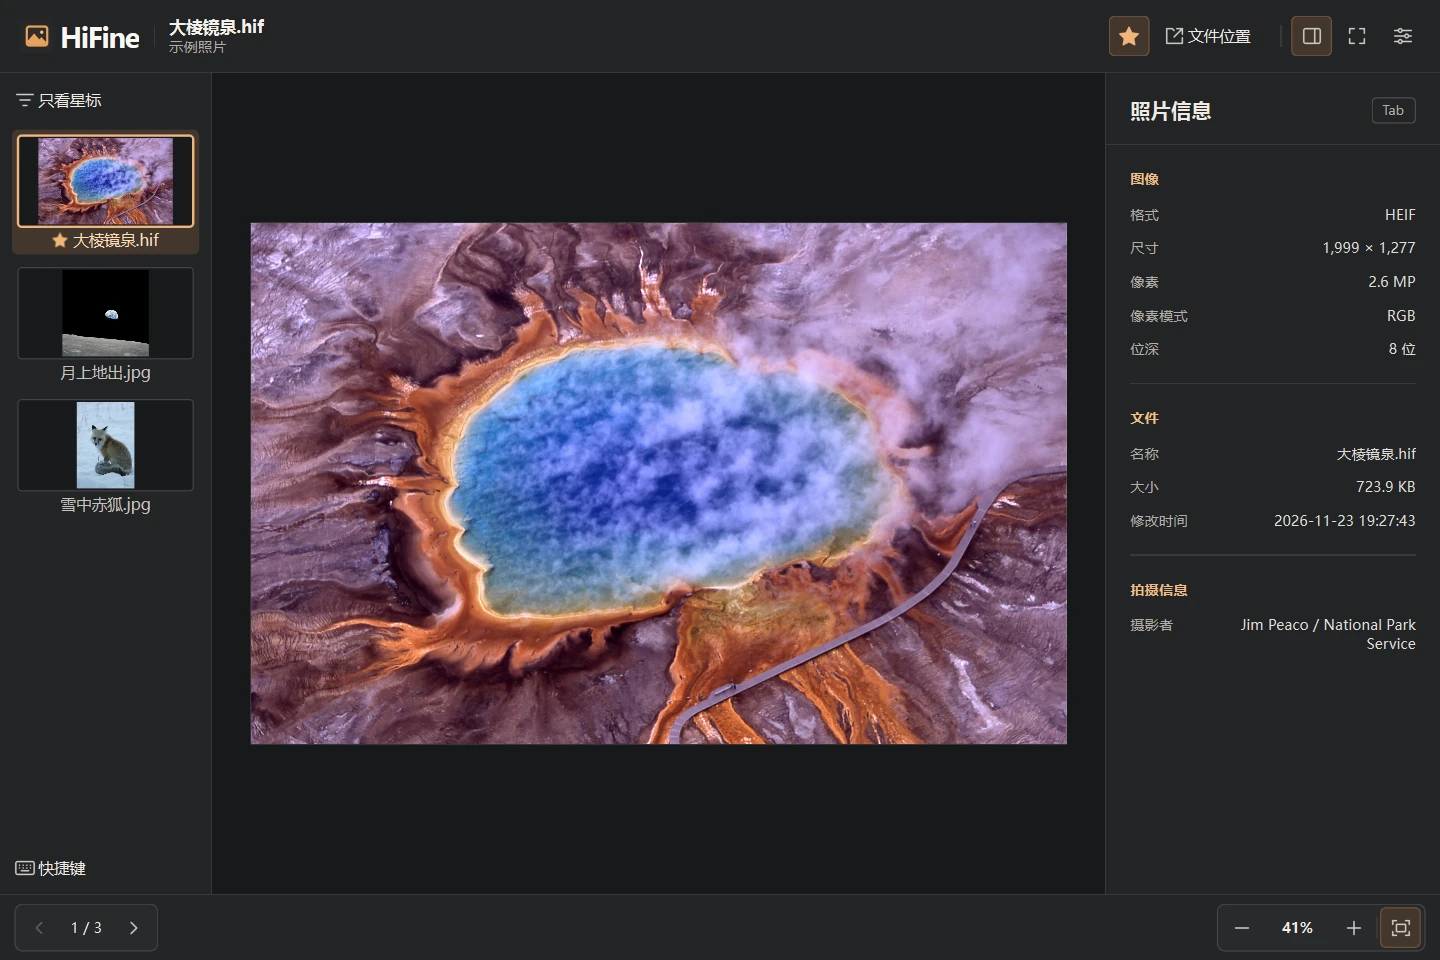
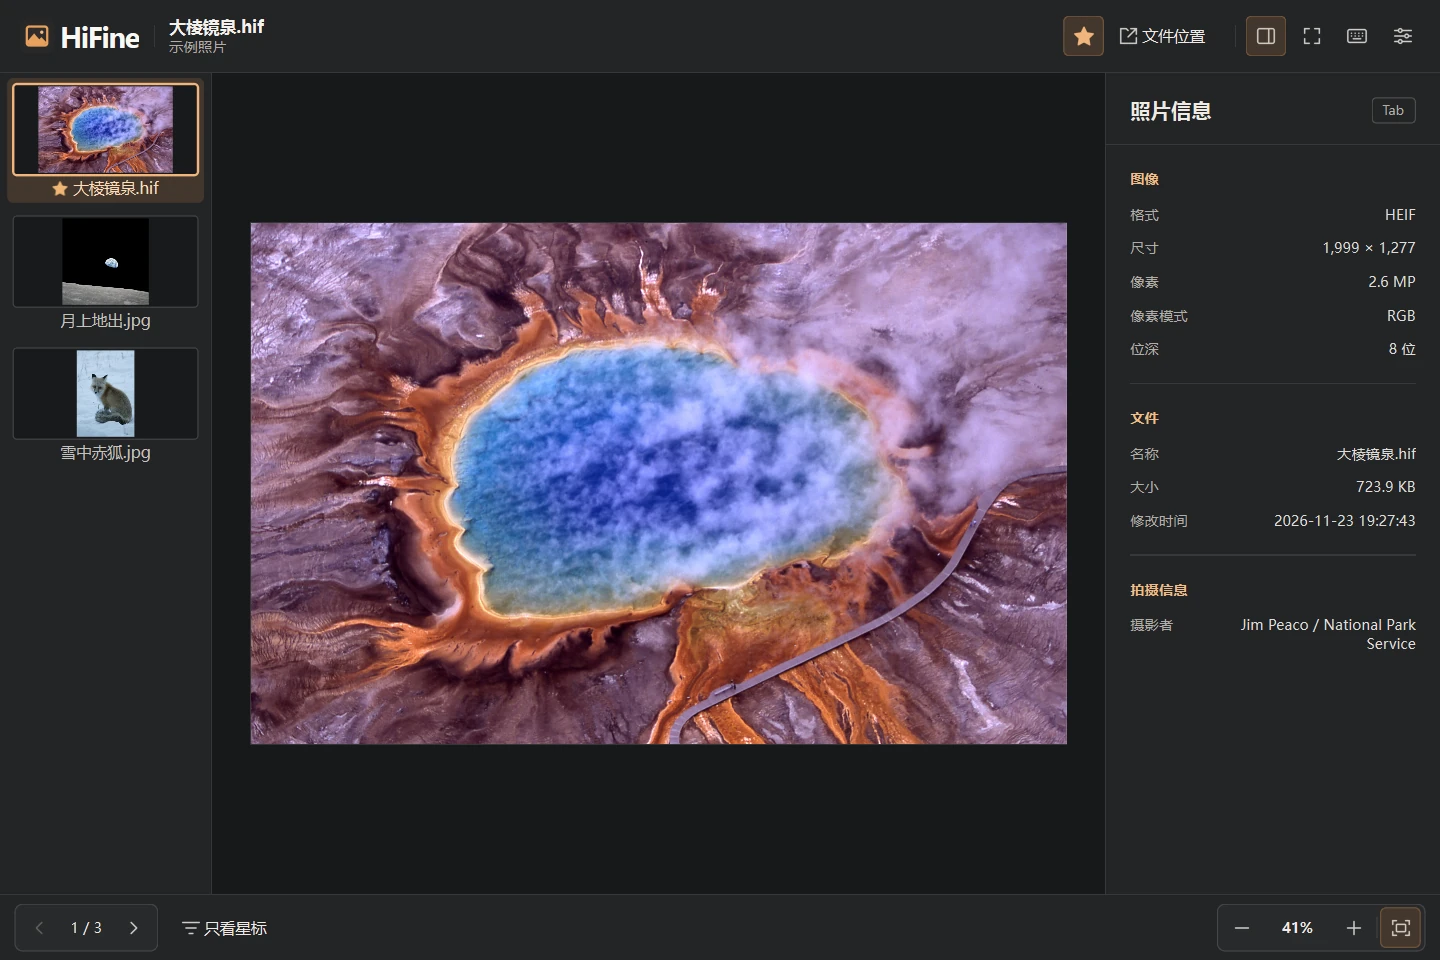
feat: 调整星标筛选和快捷键入口，腾出缩略图空间

diff --git a/src/hifine/viewer.py b/src/hifine/viewer.py
@@ -10,7 +10,7 @@ from PySide6.QtCore import (
 from PySide6.QtGui import QColorSpace, QDesktopServices, QGuiApplication, QImage, QKeySequence, QMovie, QShortcut, QTransform
 from PySide6.QtWidgets import (
     QApplication, QDialog, QFileDialog, QFrame, QHBoxLayout, QLabel, QMainWindow,
-    QMessageBox, QSizePolicy, QStackedWidget, QVBoxLayout, QWidget,
+    QMessageBox, QStackedWidget, QVBoxLayout, QWidget,
 )
 
 from .canvas import ImageCanvas
@@ -58,7 +58,6 @@ QLabel#sectionTitle { font-size: 12px; font-weight: 600; color: #f1bc86; }
 QTextEdit#metaValue { color: #dfddd8; background: transparent; }
 QLabel#filename { color: #f4f1ec; font-size: 14px; font-weight: 600; }
 QTextEdit#stateDescription { color: #a8a5a0; background: transparent; }
-QWidget#thumbnailSidebar { background: #232426; }
 QFrame#buttonGroup { background: #292a2c; border: 1px solid #454548; border-radius: 7px; }
 QToolButton#zoom { font-size: 12px; font-weight: 600; }
 QScrollBar:vertical { background: #232426; width: 6px; }
@@ -198,6 +197,9 @@ class MainWindow(QMainWindow):
         top.addWidget(self.info_button)
         self.full_button = ToolButton("fullscreen", "进入或退出全屏", self._toggle_fullscreen, checkable=True)
         top.addWidget(self.full_button)
+        self.shortcuts_button = ToolButton("keyboard", "快捷键", self.show_shortcuts)
+        self.shortcuts_button.setFocusPolicy(Qt.FocusPolicy.TabFocus)
+        top.addWidget(self.shortcuts_button)
         self.settings_button = ToolButton("settings", "设置", self.show_settings)
         top.addWidget(self.settings_button)
         layout.addWidget(header)
@@ -210,21 +212,7 @@ class MainWindow(QMainWindow):
         self.thumbnail_list.row_requested.connect(self._go_to)
         self.thumbnail_list.file_menu_requested.connect(self._show_file_menu)
         QApplication.instance().aboutToQuit.connect(self.thumbnail_list.shutdown)
-        self.thumbnail_sidebar = QWidget()
-        self.thumbnail_sidebar.setObjectName("thumbnailSidebar")
-        sidebar = QVBoxLayout(self.thumbnail_sidebar)
-        sidebar.setContentsMargins(4, 5, 4, 5)
-        sidebar.setSpacing(4)
-        self.favorite_filter = ToolButton("filter", "只看星标", self._filter_favorites,
-                                          text="只看星标", checkable=True)
-        self.favorite_filter.setSizePolicy(QSizePolicy.Policy.Expanding, QSizePolicy.Policy.Fixed)
-        sidebar.addWidget(self.favorite_filter)
-        sidebar.addWidget(self.thumbnail_list, 1)
-        self.thumbnail_hint = ToolButton("keyboard", "快捷键", self.show_shortcuts, text="快捷键")
-        self.thumbnail_hint.setFocusPolicy(Qt.FocusPolicy.TabFocus)
-        self.thumbnail_hint.setSizePolicy(QSizePolicy.Policy.Expanding, QSizePolicy.Policy.Fixed)
-        sidebar.addWidget(self.thumbnail_hint)
-        body.addWidget(self.thumbnail_sidebar)
+        body.addWidget(self.thumbnail_list)
         sidebar_divider = QFrame()
         sidebar_divider.setObjectName("divider")
         sidebar_divider.setFixedWidth(1)
@@ -294,6 +282,9 @@ class MainWindow(QMainWindow):
         self.play_button = ToolButton("pause", "播放或暂停动图", self._toggle_play)
         self.play_button.hide()
         group(self.prev_button, self.position, self.next_button, self.play_button)
+        self.favorite_filter = ToolButton("filter", "只看星标", self._filter_favorites,
+                                          text="只看星标", checkable=True)
+        bottom.addWidget(self.favorite_filter)
         self.selection_label = ElidedLabel("selection")
         self.selection_label.setToolTip("右键选中的缩略图可批量操作")
         bottom.addWidget(self.selection_label, 1)
@@ -341,7 +332,7 @@ class MainWindow(QMainWindow):
         button(window_keys, self.full_button, ("F11", keys.FullScreen))
         window_keys.append(("退出全屏", bind(("Escape",), self._leave_fullscreen)))
         button(window_keys, self.settings_button, ("Ctrl+,",))
-        button(window_keys, self.thumbnail_hint, ("F1",))
+        button(window_keys, self.shortcuts_button, ("F1",))
         window_keys.append(("移到下一个控件", bind(("F6",), self.focusNextChild)))
         window_keys.append(("移到上一个控件", bind(("Shift+F6",), self.focusPreviousChild)))
         button(photo_keys, self.prev_button, ("Left", "Up"), repeat=True)
@@ -963,11 +954,7 @@ class MainWindow(QMainWindow):
         if hasattr(self, "info_panel"):
             self.reveal_button.setToolButtonStyle(Qt.ToolButtonStyle.ToolButtonTextBesideIcon
                                                   if self.width() >= 760 else Qt.ToolButtonStyle.ToolButtonIconOnly)
-            width = max(105, min(176, round(self.width() * 0.15)))
-            side = self.thumbnail_sidebar
-            margins = side.layout().contentsMargins()
-            tools_width = max(self.favorite_filter.sizeHint().width(), self.thumbnail_hint.sizeHint().width())
-            side.setFixedWidth(max(width, tools_width + margins.left() + margins.right()))
+            self.thumbnail_list.setFixedWidth(max(105, min(176, round(self.width() * 0.15))))
             self.info_panel.setFixedWidth(max(205, min(278, round(self.width() * 0.235))))
 
     def dragEnterEvent(self, event):

diff --git a/tests/test_viewer.py b/tests/test_viewer.py
@@ -80,12 +80,15 @@ def request_menu(app, widget, point):
 
 
 def test_star_filter_navigation_bulk_copy_and_unmark(app, window, tmp_path):
+    window.resize(600, 380)
     paths = [tmp_path / f"{n}.jpg" for n in range(4)]
     for path in paths:
         Image.new("RGB", (8, 8)).save(path)
     window.open_file(paths[0])
     finish_read(app, window)
     view = window.thumbnail_list
+    assert window.favorite_filter.parentWidget().objectName() == "footer"
+    assert window.favorite_filter.width() >= window.favorite_filter.sizeHint().width()
     # A second window may already have starred the photo since this one loaded.
     window._favorite_store.set_favorite(paths[0], True)
     QTest.keyClick(view, Qt.Key.Key_F)
@@ -385,11 +388,12 @@ def test_shortcut_help_preserves_thumbnail_selection_and_focus(app, window, tmp_
     window.open_file(paths[-1])
     finish_read(app, window)
     view = window.thumbnail_list
-    hint = window.thumbnail_hint
+    button = window.shortcuts_button
     assert view.verticalScrollBar().value() > 0
-    assert hint.isVisible() and hint.text() == "快捷键"
-    assert hint.mapTo(window, QPoint()).y() >= view.mapTo(window, QPoint(0, view.height())).y()
-    assert hint.width() >= hint.sizeHint().width()
+    assert view.height() == window.stage.height()
+    assert button.parentWidget() is window.settings_button.parentWidget()
+    assert button.isVisible() and not button.icon().isNull()
+    assert button.accessibleName() == "快捷键" and "F1" in button.toolTip()
     previous = view.model().index(len(paths) - 2, 0)
     QTest.mouseClick(view.viewport(), Qt.MouseButton.LeftButton, Qt.KeyboardModifier.ControlModifier,
                      view.visualRect(previous).center())
@@ -414,7 +418,7 @@ def test_shortcut_help_preserves_thumbnail_selection_and_focus(app, window, tmp_
     if via_keyboard:
         QTest.keyClick(view, Qt.Key.Key_F1)
     else:
-        QTest.mouseClick(hint, Qt.MouseButton.LeftButton)
+        QTest.mouseClick(button, Qt.MouseButton.LeftButton)
     wait_until(app, lambda: bool(help_pages))
     timer.stop()
     (title, labels, escaped), = help_pages

diff --git a/README.md b/README.md
@@ -14,10 +14,10 @@
 
 - **用方向键翻完整个文件夹。** 双击一张照片，按 ← 或 ↑ 看上一张，按 → 或 ↓ 看下一张。相机拍的 HIF、HEIF、HEIC 可以直接看，平时的 JPG、PNG 和动图也能开。
 - **连拍来回比，少等几回。** HiFine 会提前读相邻的照片。双击人眼看原大，也可以用滚轮缩放。在「设置 → 图片浏览」勾选「翻图时保留缩放倍率和查看位置」，就能用方向键盯着同一处比哪张更清楚。按 Tab 还能看快门、光圈和 ISO。照片信息里的长文件名会自动换行，选中后可以复制完整名称。
-- **左边一溜缩略图，挑好几张一起收拾。** 按住 Ctrl（Mac 上是 ⌘）挨个点，按住 Shift 点最后一张就能连选一段。选中的照片可以一起复制、剪切，或是送进回收站。从别的文件夹复制来的照片也能直接粘贴进来，碰上同名的会自动加序号。记不住快捷键，按 F1 或点缩略图下方的「快捷键」就能查。
+- **左边一溜缩略图，挑好几张一起收拾。** 按住 Ctrl（Mac 上是 ⌘）挨个点，按住 Shift 点最后一张就能连选一段。选中的照片可以一起复制、剪切，或是送进回收站。从别的文件夹复制来的照片也能直接粘贴进来，碰上同名的会自动加序号。记不住快捷键，按 F1 或点右上角设置旁的键盘图标就能查。
 - **右键就能管文件。** 右键选中的缩略图，一次操作整组。想单独收拾旁边那张糊片，直接右键它，眼前的大图还能留着作对照。Windows 上弹出的就是资源管理器的原生菜单。
 - **看中了哪张，按回车就能找到原文件。** 浏览缩略图或大图时都能用，也可以点顶栏的「文件位置」。想接着挑另一个文件夹，把里面任意一张照片拖进窗口就行。手边没照片？直接启动 HiFine，还有三张示例可以试试。
-- **想留的按 F 加星。** 再按一次取消。挑完按 **Shift+F** 或点左侧「只看星标」，就能把喜欢的照片一起复制走。下次打开，星标还在。
+- **想留的按 F 加星。** 再按一次取消。挑完按 **Shift+F** 或点左下角翻页按钮旁的「只看星标」，就能把喜欢的照片一起复制走。下次打开，星标还在。
 
 至于以后加什么，得看我下回拍完照又被什么事惹毛了。
 
